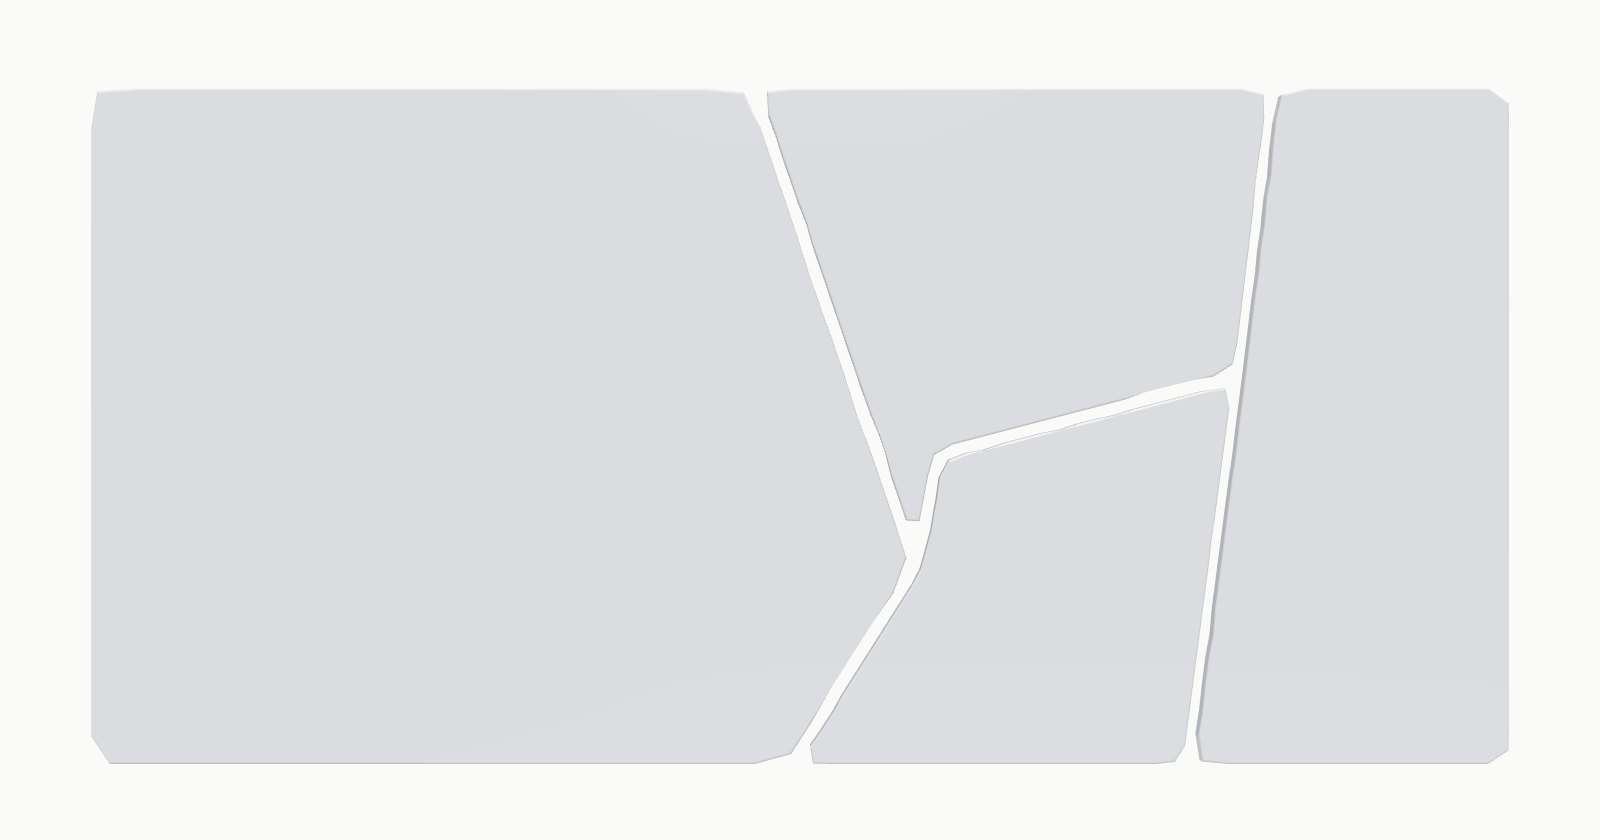
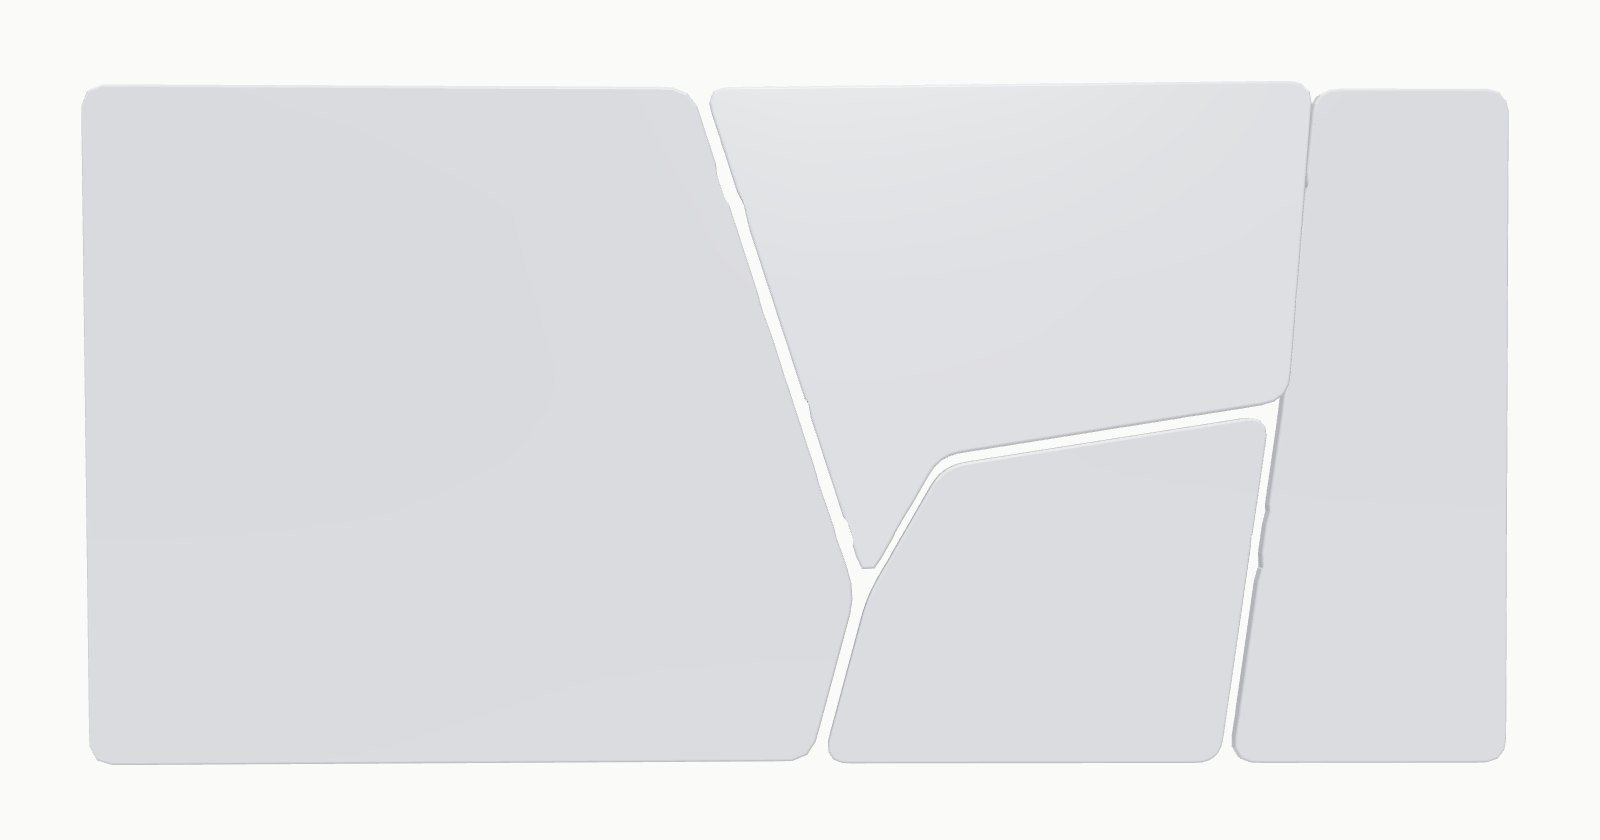
Cacos voam em camadas sem se atravessar, carrossel centralizado e bordas mais lisas

diff --git a/site/src/cena.js b/site/src/cena.js
@@ -35,7 +35,10 @@ const CELULAS_5 = [
 ];
 // Com 4 projetos, os dois cacos de cima do meio viram um só
 const CELULAS_4 = [CELULAS_5[0], ['tAB', 'tCE', 'J2', 'J1', 'J0'], CELULAS_5[3], CELULAS_5[4]];
-const PONTOS_CONTORNO = 72;
+// Muitos pontos no contorno: cantos lisos, sem facetas
+const PONTOS_CONTORNO = 180;
+// Chanfro arredondado das bordas (em unidades de S)
+const CHANFRO = 3.6;
 
 // Recua um polígono para dentro (as frestas entre os cacos)
 function recuar(pts, g) {
@@ -61,7 +64,7 @@ function recuar(pts, g) {
 }
 
 // Cantos arredondados, já como lista de pontos
-function arredondar(pts, r, passos = 5) {
+function arredondar(pts, r, passos = 12) {
   const saida = [];
   for (let i = 0; i < pts.length; i++) {
     const p = pts[i], antes = pts[(i - 1 + pts.length) % pts.length], depois = pts[(i + 1) % pts.length];
@@ -159,7 +162,7 @@ export async function iniciarCena({ canvas, base, projetos, tema, reduzir, celul
       malha, capa, eixo,
       centro: new THREE.Vector2(), topo: 0, contorno: null,
       mola: { z: 0, vz: 0, rx: 0, vrx: 0, ry: 0, vry: 0 }, hover: 0,
-      giro: 2 + sorte() * 1.6, balanco: (0.35 + sorte() * 0.35) * (sorte() > 0.5 ? 1 : -1), elevar: 420 + sorte() * 380, lado: new THREE.Vector2(sorte() - 0.5, sorte() - 0.5),
+      giro: 2 + sorte() * 1.6, balanco: (0.08 + sorte() * 0.08) * (sorte() > 0.5 ? 1 : -1), camada: 0, elevar: 420 + sorte() * 380, lado: new THREE.Vector2(sorte() - 0.5, sorte() - 0.5),
       alvo: null,
     };
   });
@@ -206,7 +209,7 @@ export async function iniciarCena({ canvas, base, projetos, tema, reduzir, celul
   function contornoDaCelula(pts, i) {
     const S = tela.S;
     const poligono = CELULAS[i].map((n) => placaParaMundo(pts[n]));
-    return reamostrar(arredondar(recuar(poligono, 7 * S + 2.6 * S), 20 * S), PONTOS_CONTORNO);
+    return reamostrar(arredondar(recuar(poligono, 7 * S + CHANFRO * S), 26 * S), PONTOS_CONTORNO);
   }
 
   // Contorno do cartão de destino (retângulo de cantos redondos)
@@ -215,9 +218,11 @@ export async function iniciarCena({ canvas, base, projetos, tema, reduzir, celul
     // Cartões da frente ficam um pouco mais perto; o tamanho compensa a perspectiva
     const z = (2 - Math.abs(a.d)) * 12;
     const f = (tela.dist - z) / tela.dist;
-    const w = (a.w / 2) * f, h = (a.h / 2) * f;
+    // O chanfro cresce para fora: o contorno encolhe o mesmo tanto para o cartão bater com o HTML
+    const b = CHANFRO * tela.S;
+    const w = (a.w / 2) * f - b, h = (a.h / 2) * f - b;
     const cantos = [new THREE.Vector2(c.x - w, c.y + h), new THREE.Vector2(c.x + w, c.y + h), new THREE.Vector2(c.x + w, c.y - h), new THREE.Vector2(c.x - w, c.y - h)];
-    return { pontos: reamostrar(arredondar(cantos, a.raio * f, 8), PONTOS_CONTORNO), z, d: a.d, slug: a.slug };
+    return { pontos: reamostrar(arredondar(cantos, Math.max(1, a.raio * f - b), 16), PONTOS_CONTORNO), z, d: a.d, slug: a.slug };
   }
 
   function construir(caco, contorno, espessura, comCapa) {
@@ -228,13 +233,13 @@ export async function iniciarCena({ canvas, base, projetos, tema, reduzir, celul
     const local = contorno.map((p) => new THREE.Vector2(p.x - c.x, p.y - c.y));
     const forma = new THREE.Shape(local);
     const geo = new THREE.ExtrudeGeometry(forma, {
-      depth: espessura, bevelEnabled: true, bevelThickness: 2.6 * S, bevelSize: 2.6 * S, bevelSegments: 3, curveSegments: 1,
+      depth: espessura, bevelEnabled: true, bevelThickness: CHANFRO * S, bevelSize: CHANFRO * S, bevelSegments: 6, curveSegments: 1,
     });
     geo.translate(0, 0, -espessura / 2);
     caco.malha.geometry.dispose();
     caco.malha.geometry = geo;
     caco.centro.copy(c);
-    caco.topo = espessura / 2 + 2.6 * S;
+    caco.topo = espessura / 2 + CHANFRO * S;
     if (comCapa) {
       // Capa por cima, recortada como o "cover" do CSS (altura inteira, meio da largura)
       const g = new THREE.ShapeGeometry(forma);
@@ -294,6 +299,10 @@ export async function iniciarCena({ canvas, base, projetos, tema, reduzir, celul
     // Ordem pelos cacos na placa (não pelo contorno em voo, que muda no caminho)
     const meio = (c) => (c.contornoPlaca ? c.contornoPlaca.reduce((s, q) => s + q.x, 0) / c.contornoPlaca.length : 0);
     const ordem = cacos.map((c, i) => i).sort((a, b) => meio(cacos[a]) - meio(cacos[b]));
+    // Camada de voo: quem pousa mais à frente no carrossel voa mais alto
+    cacos.map((c, i) => ({ c, d: Math.abs(destinos[ordem.indexOf(i)]?.d ?? 9) }))
+      .sort((a, b) => b.d - a.d)
+      .forEach(({ c }, n) => { c.camada = n; });
     ordem.forEach((i, k) => {
       const destino = destinos[k];
       if (!destino) return;
@@ -357,8 +366,8 @@ export async function iniciarCena({ canvas, base, projetos, tema, reduzir, celul
 
     // Inclinação da placa toda, como se o cursor apertasse aquele ponto
     const calmo = (reduzir ? 0 : 1) * (1 - degrau(0, 0.25, p));
-    inclinY = suavizar(inclinY, mouseDentro ? (mouse.x * graus(7) - graus(1.2)) * calmo : 0, 3.3, dt);
-    inclinX = suavizar(inclinX, mouseDentro ? (-mouse.y * graus(5.5) + graus(0.8)) * calmo : 0, 3.3, dt);
+    inclinY = suavizar(inclinY, mouseDentro ? mouse.x * graus(5) * calmo : 0, 3.3, dt);
+    inclinX = suavizar(inclinX, mouseDentro ? -mouse.y * graus(4) * calmo : 0, 3.3, dt);
     palco.rotation.set(-inclinX, inclinY, 0);
     brilhoCursor.uGlow.value = suavizar(brilhoCursor.uGlow.value, mouseDentro && p < 0.1 ? 1 : 0, 5, dt);
 
@@ -375,7 +384,7 @@ export async function iniciarCena({ canvas, base, projetos, tema, reduzir, celul
     if (reconstruir) proximaConstrucao = t + 1 / 45;
     const pts = reconstruir ? cortes(t * (reduzir ? 0.5 : 1), 1 / 45) : null;
     cacos.forEach((c, i) => {
-      const k = reduzir ? 0 : degrau(0.04 + i * 0.03, 0.8 + i * 0.03, p);
+      const k = reduzir ? 0 : degrau(0.04 + c.camada * 0.02, 0.84 + c.camada * 0.02, p);
       if (reconstruir || (k > 0 && k < 1)) {
         const daPlaca = pts ? contornoDaCelula(pts, i) : c.contornoPlaca;
         if (pts) c.contornoPlaca = daPlaca;
@@ -409,7 +418,8 @@ export async function iniciarCena({ canvas, base, projetos, tema, reduzir, celul
       c.malha.position.set(
         c.centro.x + c.lado.x * 900 * S * e,
         c.centro.y + (c.lado.y * 600 - 300) * S * e,
-        m.z + (c.elevar * S) * (e + arco * 0.4) + (c.alvo ? c.alvo.z * k : 0),
+        // No ar, cada caco voa na sua camada (os da frente mais alto): nenhum atravessa outro
+        m.z + c.elevar * S * e + arco * (90 + c.camada * 120) * S + (c.alvo ? c.alvo.z * k : 0),
       );
       c.malha.quaternion.setFromAxisAngle(c.eixo, c.giro * e + c.balanco * arco);
       eixoTmp.setFromEuler(new THREE.Euler(m.rx, m.ry, 0));
@@ -424,7 +434,9 @@ export async function iniciarCena({ canvas, base, projetos, tema, reduzir, celul
     if (!captura) {
       quadros++; tempoQuadros += dt;
       if (quadros === 90) {
-        if (quadros / tempoQuadros < 40 && pixelRatio > 0.75) { pixelRatio = Math.max(0.75, pixelRatio - 0.5); ajustar(); }
+        // No computador nunca abaixo de 1: abaixo disso as bordas serrilham
+        const minimo = celular ? 0.75 : 1;
+        if (quadros / tempoQuadros < 40 && pixelRatio > minimo) { pixelRatio = Math.max(minimo, pixelRatio - 0.5); ajustar(); }
         quadros = 0; tempoQuadros = 0;
       }
     }

diff --git a/site/src/style.css b/site/src/style.css
@@ -180,7 +180,10 @@ main { position: relative; z-index: 1; }
   position: relative; height: calc(var(--larg) * 1.32); max-width: none;
   margin-top: 8px; touch-action: pan-y; user-select: none;
 }
-.pastas { list-style: none; margin: 0; padding: 0; }
+.pastas {
+  list-style: none; margin: 0; padding: 0; position: absolute; inset: 0;
+  transform: translateX(calc(var(--desvio, 0) * var(--passo)));
+}
 .pastas li {
   position: absolute; left: 50%; top: 0; width: var(--larg); height: 100%; margin-left: calc(var(--larg) / -2);
   transform: translateX(calc(var(--d, 0) * var(--passo))) scale(var(--escala, 1));

diff --git a/site/src/projetos.js b/site/src/projetos.js
@@ -39,6 +39,8 @@ export function iniciarProjetos({ lista, painel, textos, idioma, reduzir, aoMuda
       li.classList.toggle('ativo', d === 0);
       li.classList.toggle('longe', a > 2);
     });
+    // Com número par de cartões sobra um de um lado: o conjunto anda meio passo para ficar no centro
+    lista.style.setProperty('--desvio', n % 2 === 0 ? 0.5 : 0);
     pontos.querySelectorAll('i').forEach((p, i) => p.classList.toggle('ativo', i === atual));
   }
   function irPara(i, focar = false) {
